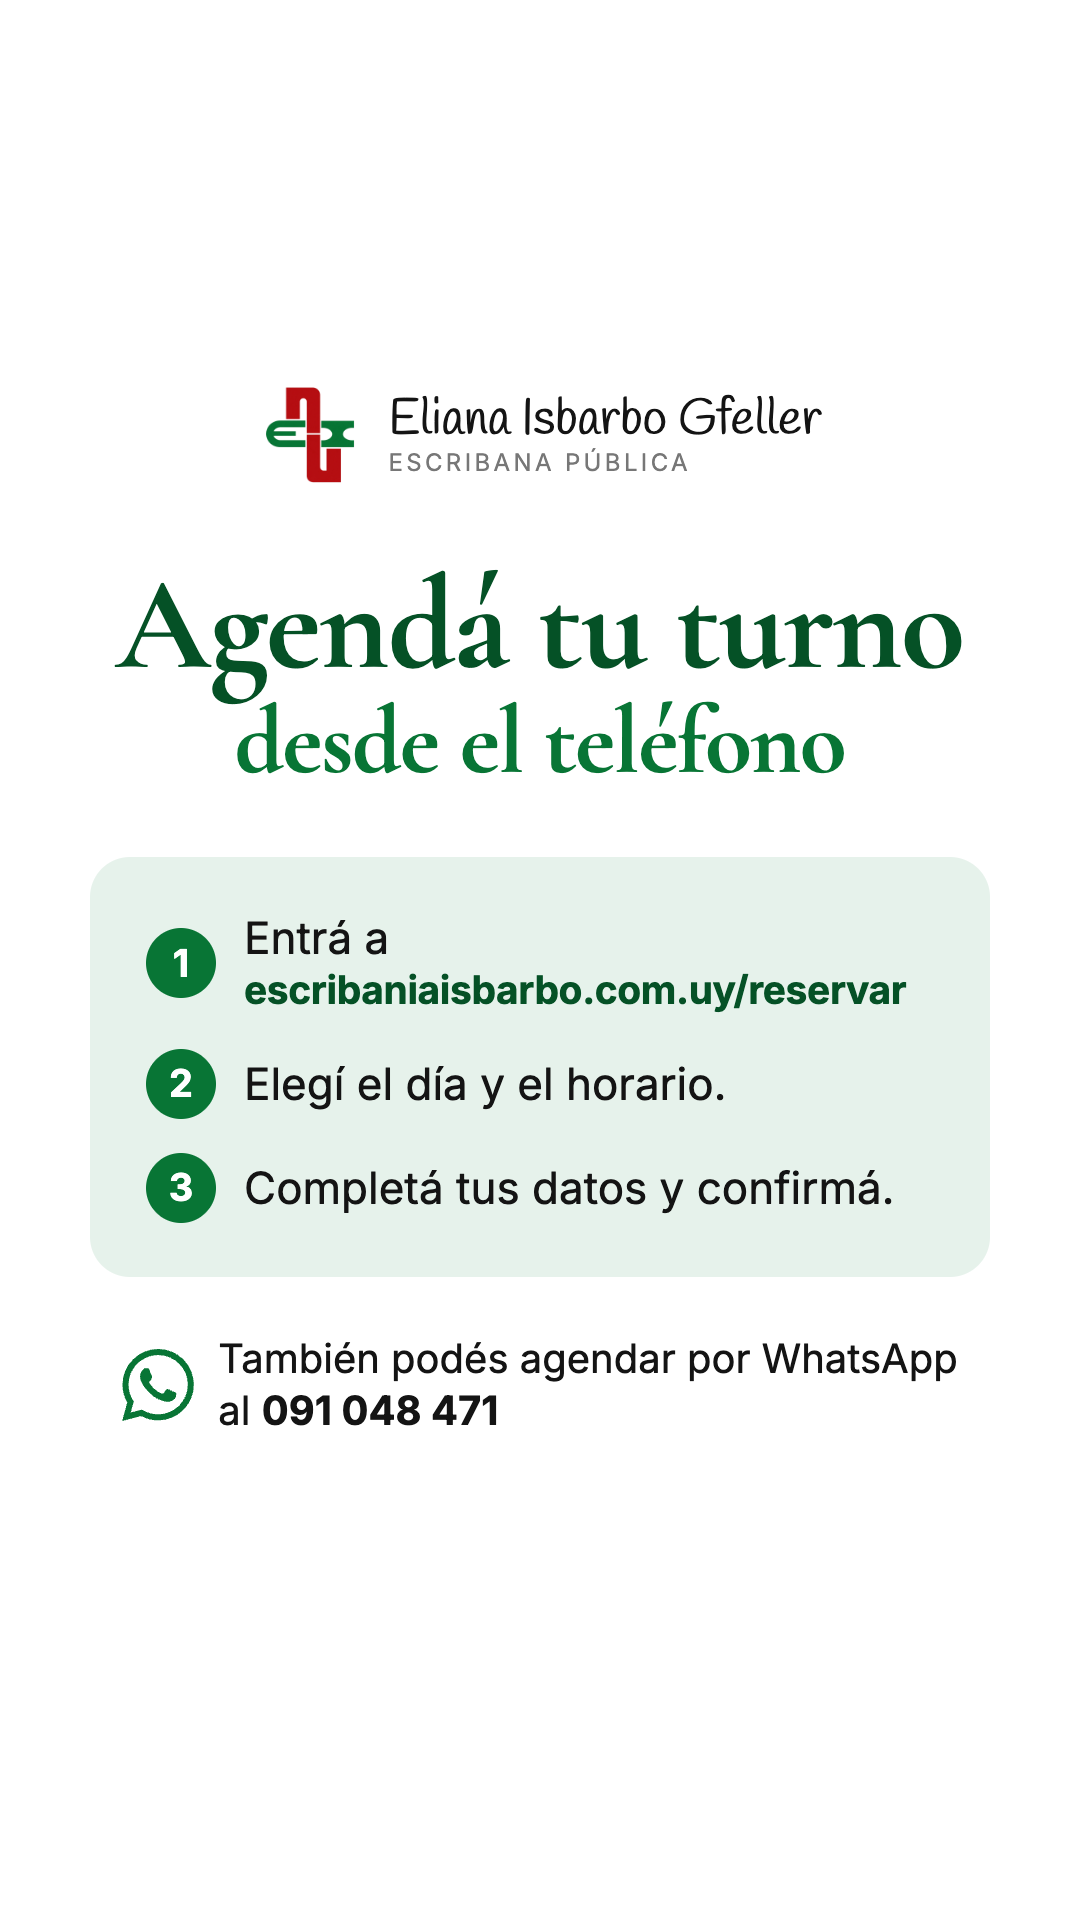
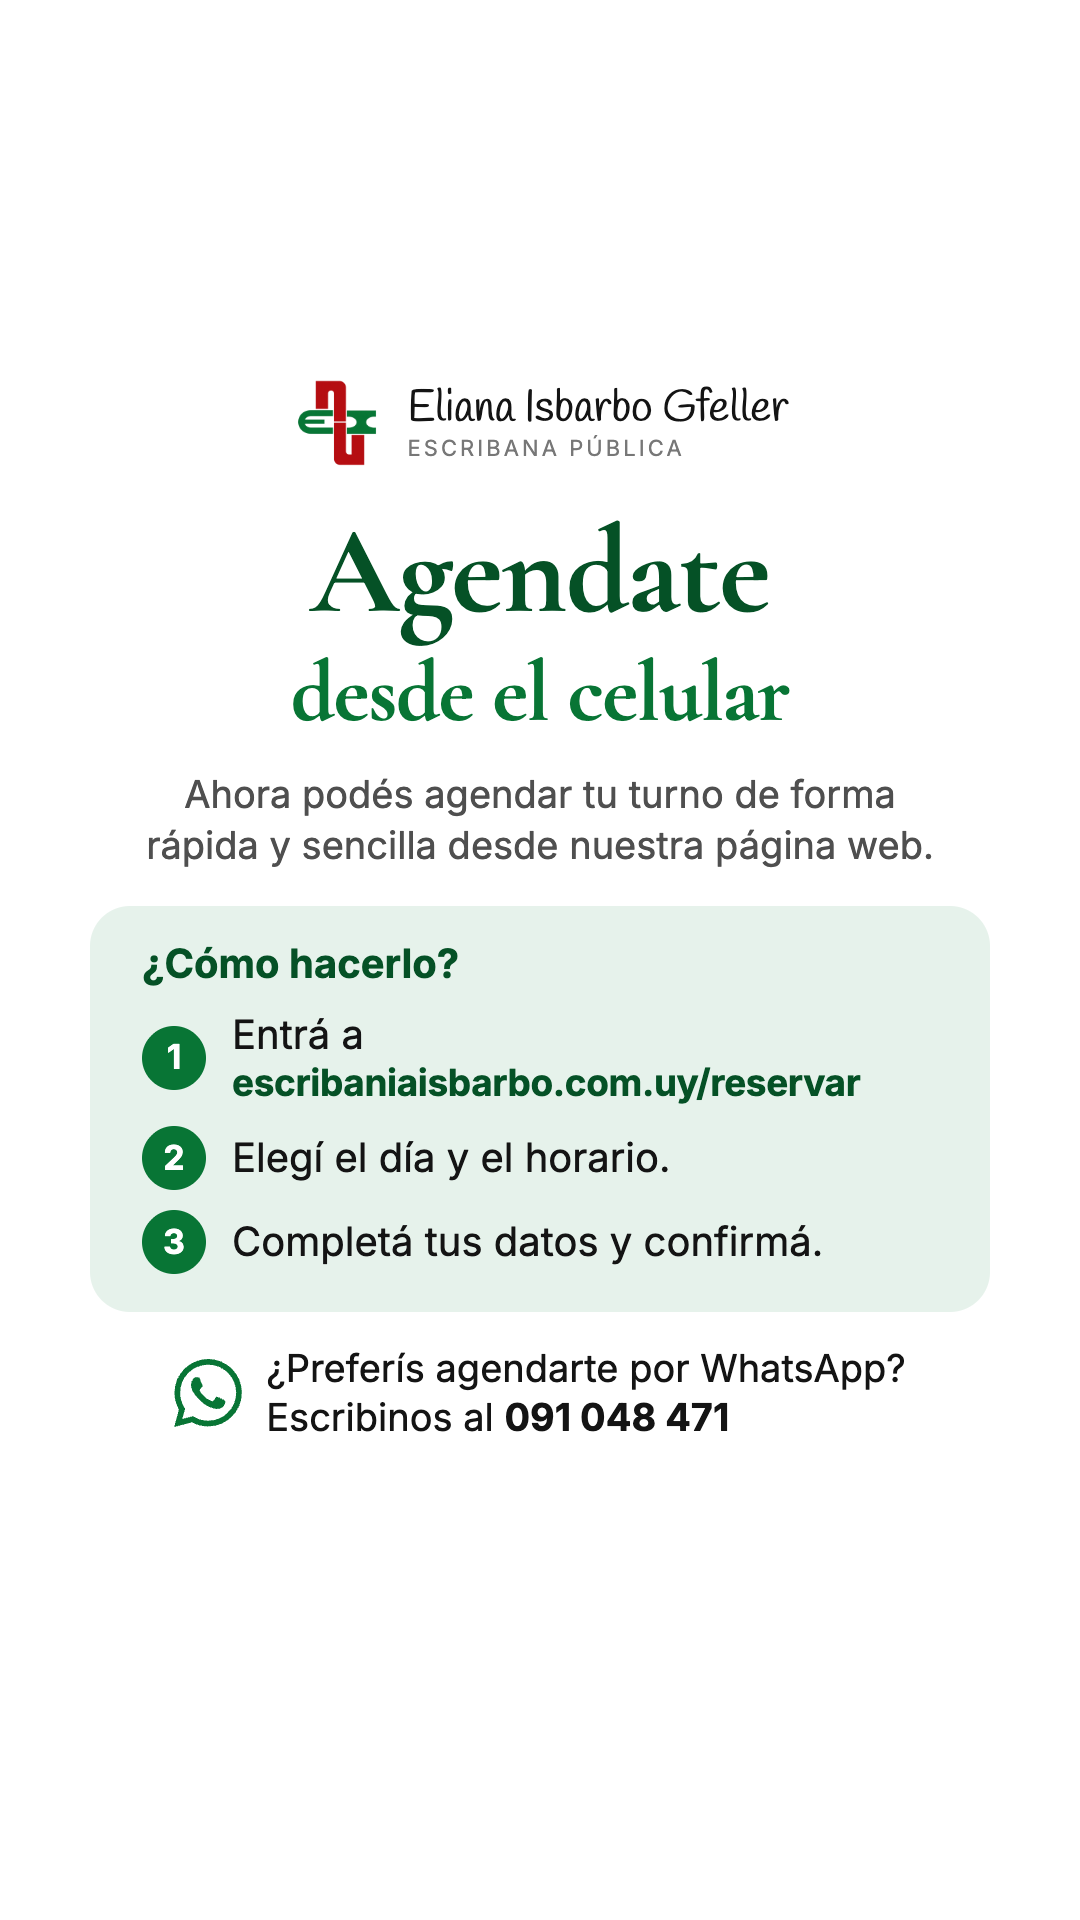
Carteles: estado de WhatsApp con "Agendate desde el celular" (#37)
El título pasa a "Agendate desde el celular" ("celular" en vez de
"teléfono", que puede sonar a llamar). Se agrega una entrada ("Ahora podés
agendar tu turno de forma rápida y sencilla desde nuestra página web"),
"¿Cómo hacerlo?" como título de los pasos, el aviso del 1 de diciembre con
"Importante" y "¿Preferís agendarte por WhatsApp? Escribinos al
091 048 471". Letras y espacios más chicos para que todo entre en la zona
que WhatsApp deja libre. Se regeneran los dos PNG.

Changed region(s): [[0.0611, 0.1875, 0.9167, 0.75]]

diff --git a/carteles/estado-whatsapp-agenda.html b/carteles/estado-whatsapp-agenda.html
@@ -3,7 +3,7 @@
 <head>
   <meta charset="utf-8">
   <meta name="viewport" content="width=1080">
-  <title>Estado de WhatsApp: Agendá tu turno</title>
+  <title>Estado de WhatsApp: Agendate desde el celular</title>
   <!--
     Imagen para el estado de WhatsApp (1080 x 1920 px, vertical 9:16) que
     promueve la agenda en línea. Tiene el mismo diseño que los carteles de
@@ -74,35 +74,35 @@
     .brand {
       display: flex;
       align-items: center;
-      gap: 26px;
+      gap: 24px;
       text-align: left;
     }
 
     .brand img {
-      width: 104px;
-      height: 104px;
+      width: 92px;
+      height: 92px;
     }
 
     .brand strong {
       display: block;
       font-family: "Handlee", cursive;
-      font-size: 50px;
+      font-size: 44px;
       font-weight: 400;
       line-height: 1.1;
     }
 
     .brand span {
       color: var(--gray-500);
-      font-size: 24px;
+      font-size: 22px;
       letter-spacing: 0.14em;
       text-transform: uppercase;
     }
 
     h1 {
-      margin-top: 76px;
+      margin-top: 44px;
       color: var(--green-950);
       font-family: "Cormorant Garamond", serif;
-      font-size: 132px;
+      font-size: 124px;
       font-weight: 700;
       line-height: 0.95;
       letter-spacing: -0.01em;
@@ -111,30 +111,49 @@
     h1 span {
       display: block;
       color: var(--green-900);
-      margin-top: 8px;
-      font-size: 96px;
+      margin-top: 22px;
+      font-size: 86px;
     }
 
-    /* Pasos */
-    .steps {
-      display: grid;
-      gap: 34px;
+    /* Entrada y pasos */
+    .intro {
+      margin-top: 34px;
+      text-wrap: balance;
+      color: var(--gray-700);
+      font-size: 38px;
+      line-height: 1.35;
+    }
+
+    .how {
       width: 100%;
-      margin-top: 70px;
-      padding: 54px 56px;
+      margin-top: 34px;
+      padding: 34px 52px 38px;
       border-radius: 40px;
       background: var(--green-100);
+      text-align: left;
+    }
+
+    .how h2 {
+      color: var(--green-950);
+      font-size: 40px;
+      font-weight: 700;
+      line-height: 1.2;
+    }
+
+    .steps {
+      display: grid;
+      gap: 20px;
+      margin-top: 22px;
       list-style: none;
       counter-reset: step;
-      text-align: left;
     }
 
     .steps li {
       display: grid;
-      grid-template-columns: 70px 1fr;
-      gap: 28px;
+      grid-template-columns: 64px 1fr;
+      gap: 26px;
       align-items: center;
-      font-size: 44px;
+      font-size: 40px;
       line-height: 1.25;
       counter-increment: step;
     }
@@ -143,19 +162,19 @@
       content: counter(step);
       display: grid;
       place-items: center;
-      width: 70px;
-      height: 70px;
+      width: 64px;
+      height: 64px;
       border-radius: 50%;
       color: var(--white);
       background: var(--green-900);
-      font-size: 38px;
+      font-size: 34px;
       font-weight: 700;
     }
 
     .steps .url {
       display: block;
       color: var(--green-950);
-      font-size: 39px;
+      font-size: 37px;
       font-weight: 700;
       letter-spacing: -0.01em;
     }
@@ -163,17 +182,20 @@
     /* Aviso de diciembre */
     .notice {
       width: 100%;
-      margin-top: 44px;
-      padding: 38px 48px;
+      margin-top: 28px;
+      padding: 30px 48px;
+      text-wrap: balance;
       border-radius: 40px;
       background: var(--red-50);
-      font-size: 42px;
-      line-height: 1.3;
+      font-size: 38px;
+      line-height: 1.32;
     }
 
     .notice strong {
       display: block;
+      margin-bottom: 6px;
       color: var(--red-700);
+      font-size: 40px;
     }
 
     /* Versión informativa (#informativo): sin el aviso de diciembre. */
@@ -186,16 +208,16 @@
       display: flex;
       align-items: center;
       gap: 24px;
-      margin-top: 56px;
-      font-size: 40px;
+      margin-top: 32px;
+      font-size: 38px;
       line-height: 1.3;
       text-align: left;
     }
 
     .fallback svg {
       flex: none;
-      width: 72px;
-      height: 72px;
+      width: 68px;
+      height: 68px;
       color: var(--green-900);
     }
 
@@ -214,24 +236,29 @@
       </div>
     </header>
 
-    <h1>Agendá tu turno <span>desde el teléfono</span></h1>
+    <h1>Agendate <span>desde el celular</span></h1>
 
-    <ol class="steps">
-      <li><span>Entrá a<span class="url">escribaniaisbarbo.com.uy/reservar</span></span></li>
-      <li>Elegí el día y el horario.</li>
-      <li>Completá tus datos y confirmá.</li>
-    </ol>
+    <p class="intro">Ahora podés agendar tu turno de forma rápida y sencilla desde nuestra página web.</p>
+
+    <section class="how">
+      <h2>¿Cómo hacerlo?</h2>
+      <ol class="steps">
+        <li><span>Entrá a<span class="url">escribaniaisbarbo.com.uy/reservar</span></span></li>
+        <li>Elegí el día y el horario.</li>
+        <li>Completá tus datos y confirmá.</li>
+      </ol>
+    </section>
 
     <p class="notice">
-      Desde el martes 1 de diciembre,
-      <strong>por la mañana, solo con agenda.</strong>
+      <strong>Importante</strong>
+      A partir del martes 1 de diciembre, la atención por la mañana será solo con agenda previa.
     </p>
 
     <footer class="fallback">
       <svg viewBox="0 0 24 24" aria-hidden="true">
         <path fill="currentColor" d="M17.472 14.382c-.297-.149-1.758-.867-2.03-.967-.273-.099-.471-.148-.67.15-.197.297-.767.966-.94 1.164-.173.199-.347.223-.644.075-.297-.15-1.255-.463-2.39-1.475-.883-.788-1.48-1.761-1.653-2.059-.173-.297-.018-.458.13-.606.134-.133.298-.347.446-.52.149-.174.198-.298.298-.497.099-.198.05-.371-.025-.52-.075-.149-.669-1.612-.916-2.207-.242-.579-.487-.5-.669-.51-.173-.008-.371-.01-.57-.01-.198 0-.52.074-.792.372-.272.297-1.04 1.016-1.04 2.479 0 1.462 1.065 2.875 1.213 3.074.149.198 2.096 3.2 5.077 4.487.709.306 1.262.489 1.694.625.712.227 1.36.195 1.871.118.571-.085 1.758-.719 2.006-1.413.248-.694.248-1.289.173-1.413-.074-.124-.272-.198-.57-.347m-5.421 7.403h-.004a9.87 9.87 0 01-5.031-1.378l-.361-.214-3.741.982.998-3.648-.235-.374a9.86 9.86 0 01-1.51-5.26c.001-5.45 4.436-9.884 9.888-9.884 2.64 0 5.122 1.03 6.988 2.898a9.825 9.825 0 012.893 6.994c-.003 5.45-4.437 9.884-9.885 9.884m8.413-18.297A11.815 11.815 0 0012.05 0C5.495 0 .16 5.335.157 11.892c0 2.096.547 4.142 1.588 5.945L.057 24l6.305-1.654a11.882 11.882 0 005.683 1.448h.005c6.554 0 11.89-5.335 11.893-11.893a11.821 11.821 0 00-3.48-8.413Z"/>
       </svg>
-      <p>También podés agendar por WhatsApp<br>al <strong>091 048 471</strong></p>
+      <p>¿Preferís agendarte por WhatsApp?<br>Escribinos al <strong>091 048 471</strong></p>
     </footer>
   </main>
 </body>
